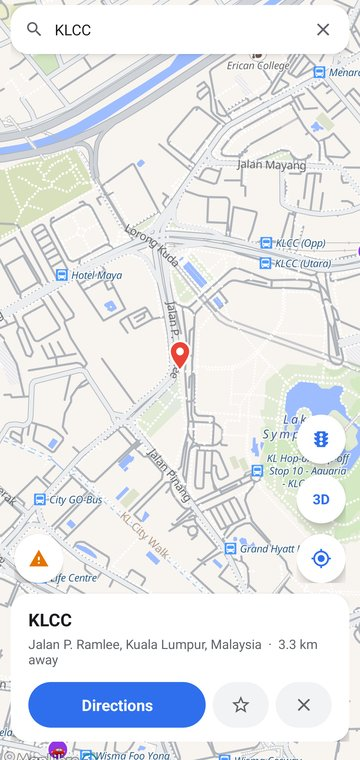
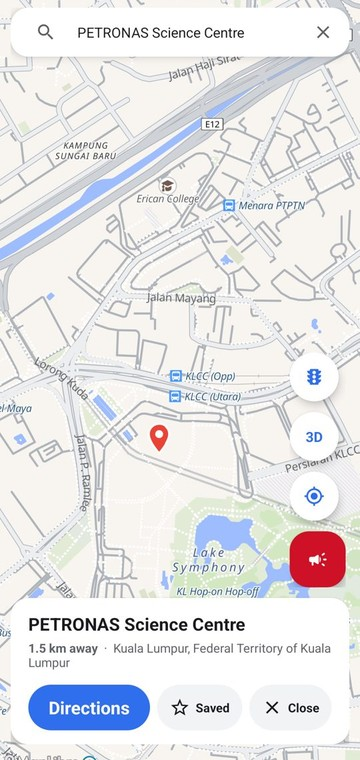
Update landing page and screenshots for Mana v0.14.0

diff --git a/ROADMAP.md b/ROADMAP.md
@@ -1,7 +1,7 @@
 # Mana roadmap
 
 What's being worked on, what's next, and ideas for later. Plans change with what drivers ask for:
-send yours with **💡 Request a feature** in the app or in the [browser version](https://ycryga.github.io/roadwise-releases/).
+send yours with **☰ → Request a feature** in the app or in the [browser version](https://ycryga.github.io/roadwise-releases/).
 What's already out is in the [changelog](CHANGELOG.md).
 
 ## 🚧 Working on now
@@ -15,7 +15,7 @@ What's already out is in the [changelog](CHANGELOG.md).
 
 - **Mana's own routing server**, so routes don't depend on free public servers when many
   people drive with Mana at once.
-- **More in the browser version**: Home and Work, speed cameras, tolls and speed limits.
+- **More in the browser version**: speed cameras, tolls and speed limits.
 - **More accurate arrival times**, using how long drives really take.
 
 ## 💭 Ideas for later
@@ -27,4 +27,4 @@ What's already out is in the [changelog](CHANGELOG.md).
 ## Support
 
 Mana is free, with no ads. Donations (DuitNow or [Ko-fi](https://ko-fi.com/ycryga)) pay for live
-traffic and the servers: **☕ Support Mana** in the app shows this month's goal.
+traffic and the servers: **☰ → Support Mana** in the app shows this month's goal.

diff --git a/README.md b/README.md
@@ -20,7 +20,7 @@
 </p>
 
 <p align="center">
-  <img src="screenshots/banner.jpg" alt="Mana: turn-by-turn directions at night, a place card for KLCC, a trip with two stops, and search results" width="100%">
+  <img src="screenshots/banner.jpg" alt="Mana: turn-by-turn directions, a place card for PETRONAS Science Centre, route choices to Mid Valley Megamall, and numbered search results" width="100%">
 </p>
 
 ## What it does
@@ -77,12 +77,12 @@ The [privacy page](PRIVACY.md) lists exactly what is sent, to whom, and why.
 
 ## Help make it better
 
-- **Ideas?** Use **💡 Request a feature** in the app.
+- **Ideas?** Use **☰ → Request a feature** in the app.
 - **Found a bug or a wrong speed limit?** [Open an issue](https://github.com/ycryga/roadwise-releases/issues).
 - **Wrong road, missing place or traffic light?** Fix it on [OpenStreetMap](https://www.openstreetmap.org),
   which Mana reads from, and everyone benefits.
 - **Support Mana:** it's free with no ads; donations pay for live traffic and the servers.
-  Use **☕ Support Mana** in the app (DuitNow) or [Ko-fi](https://ko-fi.com/ycryga).
+  Use **☰ → Support Mana** in the app (DuitNow) or [Ko-fi](https://ko-fi.com/ycryga).
 
 See [what's new](CHANGELOG.md) in each release.
 
